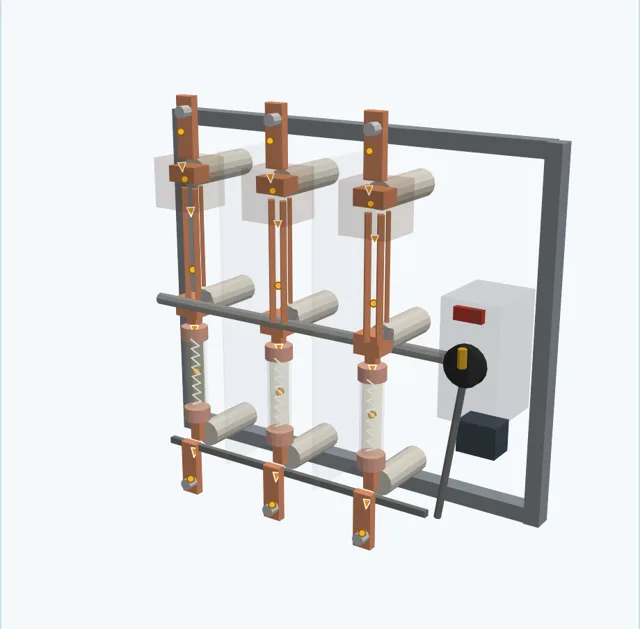
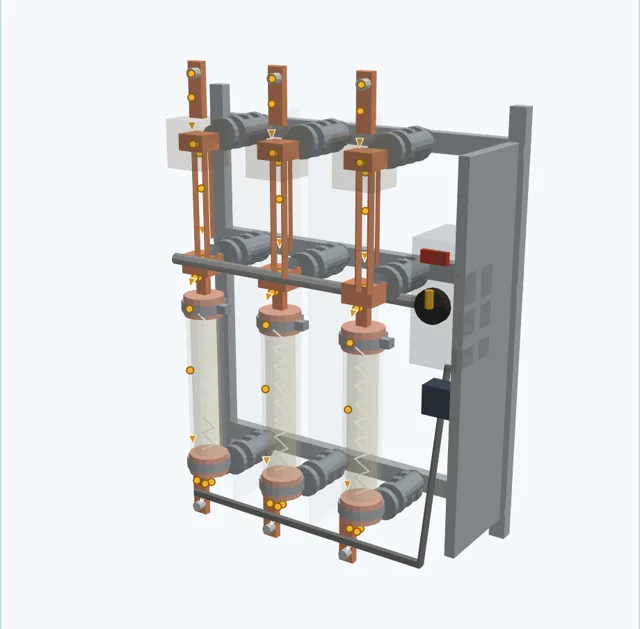
PF付きLBSの形を実機写真にそろえる
限流ヒューズを相間150mm・φ60×310の比で大きく下に吊る形にし、背面の取付枠から前へ突き出すひだ付き支持がいし（上・中・下）、右側の操作機構の側板に直した。根拠表に写真との対応と未照合の範囲を追記。

Claude-Session: https://claude.ai/code/session_016WJc7SiGEo9HpmpWo3XnJh

diff --git a/lbs-pf-3d.js b/lbs-pf-3d.js
@@ -4,13 +4,22 @@
    部品の上下配置・寸法比は外形図の画像と照合できていない（ページに明記）。 */
 (function () {
   'use strict';
-  var PX = { U: -0.56, V: 0, W: 0.56 }, PH = ['U', 'V', 'W'];
-  var YT = 1.62, YH = 0.98, ZH = 0.16;         /* 固定接触部の高さ、ヒンジ（主軸）の高さと奥行 */
+  /* 1 = 約250mm。相間150mm、限流ヒューズ φ60×310 の比に合わせる */
+  var PX = { U: -0.6, V: 0, W: 0.6 }, PH = ['U', 'V', 'W'];
+  var YT = 2.75, YH = 1.95, ZH = 0.2;           /* 固定接触部の高さ、ヒンジの高さと奥行 */
   var BL = YT - YH;                             /* ブレードの長さ */
-  var FT = 0.86, FB = 0.32, ZF = 0.16;          /* ヒューズの上端・下端・奥行 */
-  var CU = 0xc9874a, SILV = 0xc9cacc, RES = 0x7a4a2c, INS = 0xd9d3c6, STEEL = 0x8c939a;
+  var FT = 1.74, FB = 0.5, ZF = 0.2, FR = 0.12; /* ヒューズの上端・下端・奥行・半径 */
+  var ZB = -0.46;                               /* 背面の取付枠 */
+  var CU = 0xc9874a, SILV = 0xc9cacc, RES = 0x8a6a4c, INS = 0x9aa0a4, STEEL = 0xb4b9bd;
   function rotX(h, ang, x) { return [x, YH + h * Math.cos(ang), ZH + h * Math.sin(ang)]; }
   var DEG = Math.PI / 180;
+  /* ひだ付きの支持がいし（背面から前へ） */
+  function insul(G, x, y, z0, z1) {
+    var L = z1 - z0;
+    G.cyl(0.065, L, x, y, (z0 + z1) / 2, INS, 'z', { part: 'ins' }, { seg: 14 });
+    for (var i = 1; i <= 4; i++) G.cyl(0.105, 0.03, x, y, z0 + L * i / 5.2, INS, 'z', { part: 'ins' }, { seg: 16 });
+    G.cyl(0.08, 0.05, x, y, z0 + 0.025, 0x7c8186, 'z', { part: 'ins' }, { seg: 12 });
+  }
 
   var parts = {
     src: { name: '電源側端子', role: '受電側（電源側）の電線をつなぐ端子。開閉器が「切」でも、ここから上は電源につながっていて充電されている。', links: ['fixed', 'arc'], ev: 'simp', note: '上下どちらが電源側かは取付けで決まる。この図では上を電源側にしている。外形図とは未照合。' },
@@ -18,9 +27,9 @@
     fixed: { name: '固定接触部', role: 'ブレードが入る受け側。入のときは主ブレードがここで電流を流す。', links: ['src', 'blade', 'aux'], ev: 'simp', note: '主コンタクトと補助ブレードの2段構成はカタログ記載。形は簡略化。' },
     blade: { name: '主ブレード（主コンタクト）', role: 'ふだん電流を流す可動ブレード。「切」では、まず主ブレードが開き、電流は補助ブレードへ移る（転流）。', links: ['fixed', 'shaft', 'fuse'], ev: 'simp', note: '2段構成と開く順番はカタログ p.24付近。ブレードの形は簡略化。' },
     aux: { name: '速切り補助ブレード', role: '主ブレードより後に、ひねりばねの力で一気に開く補助のブレード。アークはここで出て、アークシュートの中で消える。', links: ['fixed', 'arc', 'blade'], ev: 'doc', note: 'ひねりばねで加速する速切り補助ブレード（カタログ p.24付近）。形・取付位置は簡略化。' },
-    ins: { name: '支持がいし', role: '充電部を取付枠から絶縁して支える。', links: ['frame', 'src', 'shaft'], ev: 'unk', note: '材質・形状・本数は未確認。' },
+    ins: { name: '支持がいし', role: '充電部を背面の取付枠から絶縁して支える。ひだで沿面距離をかせいでいる。', links: ['frame', 'src', 'shaft'], ev: 'simp', note: '背面の枠から前へ突き出たひだ付きのがいしで、上・中・下の3段に描いた。この並びは利用者の写真の実機（富士電機製のPF付LBS）と同じ一般的な形。参考型式の本数・寸法は外形図と未照合。' },
     shaft: { name: '主軸（3相連動）', role: '3相の主ブレードを同じ角度で回す軸。操作機構とつながり、3相を同時に開閉する。', links: ['blade', 'mech', 'trip'], ev: 'simp', note: '3相同時に開閉することは資料どおり。軸の位置は簡略化。' },
-    fuse: { name: '限流ヒューズ（ストライカ付）', role: '短絡電流を、ピークに達する前に限流して遮断する。溶断すると下側のストライカが飛び出し、開閉器を引き外す。', links: ['blade', 'element', 'striker', 'load'], ev: 'doc', note: '三菱 CL形（ストライカ付 LB・LD）。φ50×260・φ60×310・φ77×310 の外形がある（開閉器カタログ）。図の大きさは比率を合わせた簡略化。' },
+    fuse: { name: '限流ヒューズ（ストライカ付）', role: '短絡電流を、ピークに達する前に限流して遮断する。溶断すると下側のストライカが飛び出し、開閉器を引き外す。', links: ['blade', 'element', 'striker', 'load'], ev: 'doc', note: '三菱 CL形（ストライカ付 LB・LD）。φ50×260・φ60×310・φ77×310 の外形がある（開閉器カタログ）。図は φ60×310 と相間150mmの比に合わせた。' },
     element: { name: 'ヒューズエレメント', role: '電流で溶ける金属の帯。大電流定格はV字の刻みを入れた帯をジグザグに折って、けい砂の中に張り渡している。', links: ['fuse', 'sand'], ev: 'doc', note: 'ヒューズカタログ p.5（CL形の内部構造）。材質の記載はなく未確認。' },
     sand: { name: 'けい砂（消弧材）', role: 'エレメントのまわりを満たす砂。溶けた金属とアークの熱を吸い、アークを細かく分けて消す。', links: ['element', 'fuse'], ev: 'doc', note: 'ヒューズカタログ p.5。中央部のエレメントを端部より深く埋めている。' },
     striker: { name: 'ストライカ', role: 'ヒューズが溶断すると、表示線が溶けて内蔵ばねで突き出る棒。下キャップから出て、負荷側の引外し機構を押す。', links: ['fuse', 'trip'], ev: 'doc', note: '下キャップの動作表示装置を強力にしたもの（ヒューズカタログ p.5〜6）。力・ストロークは未確認。' },
@@ -30,89 +39,88 @@
     handle: { name: '操作ハンドル（フック棒操作）', role: 'フック棒を掛けて回すところ。一気にストッパーまで回す。', links: ['mech'], ev: 'doc', note: 'ハンドル方向は右・左を選べる（形名末尾 R／L）。この図は右（R）。' },
     auxsw: { name: '補助スイッチ（2a2b）', role: '開閉器の入・切に連動する接点。表示灯や引外し回路などに使う。', links: ['mech'], ev: 'doc', note: '標準2a2b（カタログ p.18付近）。取付位置は未確認。' },
     barrier: { name: '絶縁バリヤ', role: '相と相、相と側面のあいだを仕切る板。ワンタッチで取付けられる。', links: ['frame'], ev: 'doc', note: '相間・側面とも同一品（カタログ p.22付近）。形・大きさは簡略化。' },
-    frame: { name: '取付枠', role: '盤に取付ける鋼製の枠。接地する。', links: ['ins', 'barrier'], ev: 'simp', note: '取付ピッチ 390・335 などの数値はあるが、外形図との照合はできていない。' }
+    frame: { name: '取付枠', role: 'がいしと操作機構を背面で支え、盤に取付ける鋼製の枠。接地する。', links: ['ins', 'barrier', 'mech'], ev: 'simp', note: '形は簡略化。外形図との照合はできていない。' }
   };
 
   function build(G, st, mode) {
     var ang = (st.main || 0) * 68 * DEG, angA = (st.aux || 0) * 68 * DEG;
-    /* 取付枠（背面） */
-    G.box(2.2, 0.08, 0.1, 0.12, 1.92, -0.32, STEEL, { part: 'frame' });
-    G.box(2.2, 0.08, 0.1, 0.12, 0.05, -0.32, STEEL, { part: 'frame' });
-    G.box(0.08, 1.95, 0.1, -1.0, 0.98, -0.32, STEEL, { part: 'frame' });
-    G.box(0.08, 1.95, 0.1, 1.24, 0.98, -0.32, STEEL, { part: 'frame' });
+    /* 取付枠：背面の横材3本と縦材 */
+    [YT, YH, FB - 0.02].forEach(function (y) { G.box(2.3, 0.12, 0.08, 0.1, y, ZB - 0.04, STEEL, { part: 'frame' }); });
+    [-1.0, 1.2].forEach(function (x) { G.box(0.1, 2.75, 0.08, x, (YT + FB) / 2, ZB - 0.04, STEEL, { part: 'frame' }); });
     /* 絶縁バリヤ（相間） */
-    [-0.28, 0.28].forEach(function (x) { G.box(0.02, 1.7, 0.55, x, 1.0, -0.02, 0xb8c4cc, { part: 'barrier', alpha: 0.45, shell: true, shellAlpha: 0.1 }); });
+    [-0.3, 0.3].forEach(function (x) { G.box(0.02, 2.5, 0.75, x, 1.65, -0.06, 0xb8c4cc, { part: 'barrier', alpha: 0.4, shell: true, shellAlpha: 0.08 }); });
     PH.forEach(function (ph) {
-      var x = PX[ph], fault = st.fault && ph === 'V';
-      /* 支持がいし（上・ヒンジ・下） */
-      G.cyl(0.07, 0.4, x, YT + 0.08, -0.08, INS, 'z', { part: 'ins' }, { seg: 14 });
-      G.cyl(0.07, 0.36, x, YH, -0.1, INS, 'z', { part: 'ins' }, { seg: 14 });
-      G.cyl(0.07, 0.36, x, FB - 0.12, -0.1, INS, 'z', { part: 'ins' }, { seg: 14 });
+      var x = PX[ph], fault = st.fault && ph === 'V', blown = st.blown && ph === 'V';
+      /* 支持がいし（上：固定接触部、中：ヒンジとヒューズ上、下：ヒューズ下と負荷側） */
+      insul(G, x, YT, ZB, ZH - 0.12);
+      insul(G, x, YH, ZB, ZH - 0.12);
+      insul(G, x, FB - 0.02, ZB, ZF - FR - 0.02);
       /* 電源側端子 */
-      G.box(0.1, 0.32, 0.04, x, YT + 0.32, ZH, CU, { part: 'src', cond: 'src', ph: ph });
+      G.box(0.1, 0.34, 0.04, x, YT + 0.3, ZH, CU, { part: 'src', cond: 'src', ph: ph });
       G.cyl(0.03, 0.06, x, YT + 0.4, ZH + 0.03, SILV, 'z', { part: 'src' }, { seg: 10 });
       /* 固定接触部とアークシュート */
-      G.box(0.16, 0.08, 0.12, x, YT + 0.08, ZH, CU, { part: 'fixed', cond: 'src', ph: ph });
-      G.box(0.26, 0.26, 0.24, x + 0.02, YT + 0.04, ZH + 0.02, RES, { part: 'arc', shell: true, shellAlpha: 0.22 });
+      G.box(0.18, 0.1, 0.16, x, YT - 0.02, ZH, CU, { part: 'fixed', cond: 'src', ph: ph });
+      G.box(0.26, 0.3, 0.26, x + 0.02, YT - 0.02, ZH + 0.04, RES, { part: 'arc', shell: true, shellAlpha: 0.22 });
       /* 主ブレード（2枚） */
-      [-0.035, 0.035].forEach(function (dx) {
-        G.rod(rotX(0, ang, x + dx), rotX(BL, ang, x + dx), 0.018, CU, { part: 'blade', cond: 'mid', ph: ph }, 4);
+      [-0.04, 0.04].forEach(function (dx) {
+        G.rod(rotX(0, ang, x + dx), rotX(BL - 0.04, ang, x + dx), 0.02, CU, { part: 'blade', cond: 'mid', ph: ph }, 4);
       });
       /* 速切り補助ブレード */
-      G.rod(rotX(0.12, angA, x + 0.075), rotX(BL + 0.02, angA, x + 0.075), 0.011, 0xb07a3a, { part: 'aux', cond: 'mid', ph: ph }, 4);
-      G.helix([x + 0.075, YH + 0.06, ZH], 'x', 0.025, 0.05, 4, 0x6b7075, 1.6, { part: 'aux' });
-      /* アーク（開く途中だけ） */
+      G.rod(rotX(0.18, angA, x + 0.085), rotX(BL - 0.02, angA, x + 0.085), 0.012, 0xb07a3a, { part: 'aux', cond: 'mid', ph: ph }, 4);
+      G.helix([x + 0.085, YH + 0.1, ZH], 'x', 0.03, 0.06, 4, 0x6b7075, 1.6, { part: 'aux' });
       if (st.arc > 0.02) {
-        var tip = rotX(BL + 0.02, angA, x + 0.075), fx = [x + 0.06, YT + 0.04, ZH + 0.02], wig = [];
+        var tip = rotX(BL - 0.02, angA, x + 0.085), fx = [x + 0.06, YT - 0.04, ZH + 0.04], wig = [];
         for (var i = 0; i <= 8; i++) { var t = i / 8; wig.push([fx[0] + (tip[0] - fx[0]) * t + Math.sin(i * 2.3) * 0.015, fx[1] + (tip[1] - fx[1]) * t, fx[2] + (tip[2] - fx[2]) * t + Math.cos(i * 1.7) * 0.015]); }
         G.wire(wig, 0xb38cff, 3 + 3 * st.arc, { part: 'arc', layer: 'int', nopick: true, zb: 0.2 }, false);
       }
-      /* ヒンジ部とヒューズ上の接続 */
-      G.box(0.14, 0.1, 0.12, x, YH, ZH, CU, { part: 'blade', cond: 'mid', ph: ph });
-      G.box(0.06, YH - FT - 0.03, 0.04, x, (YH + FT) / 2, ZF, CU, { part: 'fuse', cond: 'mid', ph: ph });
-      /* 限流ヒューズ：キャップ・筒・中身 */
-      var fl = FT - FB, fc = (FT + FB) / 2, blown = st.blown && ph === 'V';
-      G.cyl(0.07, 0.07, x, FT - 0.035, ZF, SILV, 'y', { part: 'fuse', cond: 'mid', ph: ph }, { seg: 16 });
-      G.cyl(0.07, 0.07, x, FB + 0.035, ZF, SILV, 'y', { part: 'fuse', cond: blown ? 'off' : 'load', ph: ph }, { seg: 16 });
-      G.cyl(0.062, fl - 0.14, x, fc, ZF, 0xe8e4da, 'y', { part: 'fuse', shell: true, shellAlpha: 0.18 }, { seg: 18 });
-      /* 中身：けい砂とエレメント（内部表示） */
-      G.cyl(0.05, fl - 0.16, x, fc, ZF, 0xe9d9a8, 'y', { part: 'sand', layer: 'int', alpha: 0.35 }, { seg: 14 });
-      var zig = [], n = 14;
-      for (var k = 0; k <= n; k++) { var yy = FT - 0.08 - (fl - 0.16) * k / n; zig.push([x + (k % 2 ? 0.028 : -0.028), yy, ZF]); }
+      /* ヒンジ部とヒューズ上の取付金具 */
+      G.box(0.2, 0.12, 0.16, x, YH, ZH, CU, { part: 'blade', cond: 'mid', ph: ph });
+      G.box(0.07, YH - FT - 0.06, 0.05, x, (YH + FT) / 2 - 0.02, ZF, CU, { part: 'fuse', cond: 'mid', ph: ph });
+      /* 限流ヒューズ：両端のキャップと締付けバンド、白い筒、中身 */
+      var fl = FT - FB, fc = (FT + FB) / 2;
+      G.cyl(FR + 0.008, 0.13, x, FT - 0.065, ZF, SILV, 'y', { part: 'fuse', cond: 'mid', ph: ph }, { seg: 18 });
+      G.cyl(FR + 0.022, 0.06, x, FT - 0.07, ZF, 0xa9adb1, 'y', { part: 'fuse' }, { seg: 18 });
+      G.box(0.06, 0.05, 0.06, x + FR + 0.04, FT - 0.07, ZF, 0xa9adb1, { part: 'fuse' });
+      G.cyl(FR + 0.008, 0.13, x, FB + 0.065, ZF, SILV, 'y', { part: 'fuse', cond: blown ? 'off' : 'load', ph: ph }, { seg: 18 });
+      G.cyl(FR + 0.022, 0.06, x, FB + 0.07, ZF, 0xa9adb1, 'y', { part: 'fuse' }, { seg: 18 });
+      G.cyl(FR, fl - 0.26, x, fc, ZF, 0xf2f0ea, 'y', { part: 'fuse', shell: true, shellAlpha: 0.16 }, { seg: 20 });
+      G.cyl(FR + 0.002, 0.03, x, FT - 0.22, ZF, 0x2f6fb5, 'y', { part: 'fuse', layer: 'ext-only' }, { seg: 20 });
+      G.cyl(0.095, fl - 0.28, x, fc, ZF, 0xe9d9a8, 'y', { part: 'sand', layer: 'int', alpha: 0.35 }, { seg: 14 });
+      var zig = [], n = 16;
+      for (var k = 0; k <= n; k++) { var yy = FT - 0.14 - (fl - 0.28) * k / n; zig.push([x + (k % 2 ? 0.05 : -0.05), yy, ZF]); }
       if (blown) {
-        G.wire(zig.slice(0, 5), 0xd9d4c7, 2.4, { part: 'element', layer: 'int', zb: 0.15 }, false);
-        G.wire(zig.slice(10), 0xd9d4c7, 2.4, { part: 'element', layer: 'int', zb: 0.15 }, false);
-        if (st.farc > 0.02) G.wire(zig.slice(4, 11), 0xb38cff, 2 + 3 * st.farc, { part: 'element', layer: 'int', nopick: true, zb: 0.2 }, false);
+        G.wire(zig.slice(0, 6), 0xd9d4c7, 2.4, { part: 'element', layer: 'int', zb: 0.15 }, false);
+        G.wire(zig.slice(11), 0xd9d4c7, 2.4, { part: 'element', layer: 'int', zb: 0.15 }, false);
+        if (st.farc > 0.02) G.wire(zig.slice(5, 12), 0xb38cff, 2 + 3 * st.farc, { part: 'element', layer: 'int', nopick: true, zb: 0.2 }, false);
       } else G.wire(zig, 0xd9d4c7, 2.4, { part: 'element', layer: 'int', zb: 0.15 }, false);
       /* ストライカ（下キャップから下へ） */
       var sOut = ph === 'V' ? (st.striker || 0) : 0;
-      G.rod([x, FB, ZF], [x, FB - 0.02 - 0.09 * sOut, ZF], 0.016, 0xd9a227, { part: 'striker' }, 6);
-      /* 負荷側端子 */
-      G.box(0.06, 0.12, 0.04, x, FB - 0.06, ZF, CU, { part: 'load', cond: blown ? 'off' : 'load', ph: ph });
-      G.box(0.1, 0.3, 0.04, x, FB - 0.27, ZF + 0.06, CU, { part: 'load', cond: blown ? 'off' : 'load', ph: ph });
-      G.cyl(0.03, 0.06, x, FB - 0.36, ZF + 0.09, SILV, 'z', { part: 'load' }, { seg: 10 });
-      /* 電流（往路：電源側 → 負荷側。帰路は負荷とほかの相・電源を通るので、この機器の外） */
+      G.rod([x, FB, ZF], [x, FB - 0.03 - 0.12 * sOut, ZF], 0.02, 0xd9a227, { part: 'striker' }, 6);
+      /* 負荷側端子（下の取付金具から前下へ） */
+      G.box(0.07, 0.1, 0.05, x, FB - 0.02, ZF - FR + 0.02, CU, { part: 'load', cond: blown ? 'off' : 'load', ph: ph });
+      G.box(0.1, 0.36, 0.04, x - 0.16, FB - 0.22, ZF - FR + 0.02, CU, { part: 'load', cond: blown ? 'off' : 'load', ph: ph });
+      G.cyl(0.03, 0.06, x - 0.16, FB - 0.34, ZF - FR + 0.05, SILV, 'z', { part: 'load' }, { seg: 10 });
       if (mode !== 'ext' && st.cur && !(st.main > 0.5 && st.aux > 0.5)) {
-        var pathTop = [[x, YT + 0.42, ZH + 0.05], [x, YT + 0.08, ZH + 0.05]];
-        var via = st.main > 0.5 ? [rotX(BL, angA, x + 0.075), rotX(0.12, angA, x + 0.075)] : [rotX(BL, ang, x), rotX(0.05, ang, x)];
-        var rest = [[x, YH - 0.05, ZF], [x, FT, ZF], [x, FB, ZF], [x, FB - 0.36, ZF + 0.08]];
-        if (!(st.blown && ph === 'V' && !st.farc)) G.flow(pathTop.concat(via, rest), { col: fault ? 'bad' : 'cur', speed: fault ? 1.2 : 0.45, m: { part: 'fuse', layer: 'int' } });
+        var pathTop = [[x, YT + 0.42, ZH + 0.05], [x, YT - 0.02, ZH + 0.06]];
+        var via = st.main > 0.5 ? [rotX(BL - 0.02, angA, x + 0.085), rotX(0.18, angA, x + 0.085)] : [rotX(BL - 0.06, ang, x), rotX(0.05, ang, x)];
+        var rest = [[x, YH - 0.08, ZF + 0.04], [x, FT, ZF + FR + 0.02], [x, FB, ZF + FR + 0.02], [x, FB - 0.02, ZF - FR + 0.04], [x - 0.16, FB - 0.34, ZF - FR + 0.06]];
+        if (!(blown && !st.farc)) G.flow(pathTop.concat(via, rest), { col: fault ? 'bad' : 'cur', speed: fault ? 1.2 : 0.45, m: { part: 'fuse', layer: 'int' } });
       }
     });
     /* 主軸（3相連動） */
-    G.cyl(0.03, 1.75, 0.08, YH, ZH, 0x9a9a96, 'x', { part: 'shaft' }, { seg: 10 });
+    G.cyl(0.035, 1.95, 0.15, YH, ZH, 0x9a9a96, 'x', { part: 'shaft' }, { seg: 10 });
     /* ストライカ引外し機構：横棒とリンク（形は簡略化） */
-    var tb = (st.trip || 0) * 0.05;
-    G.box(1.62, 0.03, 0.03, 0.08, FB - 0.16 - tb, ZF + 0.02, 0x7a7a76, { part: 'trip' });
-    G.rod([0.95, FB - 0.16 - tb, ZF + 0.02], [1.05, YH - 0.1, ZH], 0.016, 0x7a7a76, { part: 'trip' });
-    /* 操作機構・ハンドル（右） */
-    G.box(0.3, 0.6, 0.36, 1.08, YH, 0.0, 0x5f6266, { part: 'mech', shell: true, shellAlpha: 0.25 });
+    var tb = (st.trip || 0) * 0.06;
+    G.box(1.75, 0.035, 0.035, 0.15, FB - 0.2 - tb, ZF, 0x7a7a76, { part: 'trip' });
+    G.rod([1.02, FB - 0.2 - tb, ZF], [1.08, YH - 0.4, 0.05], 0.018, 0x7a7a76, { part: 'trip' });
+    /* 操作機構（右の側板と箱）・ハンドル・表示・補助スイッチ */
+    G.box(0.06, 2.4, 0.6, 1.2, 1.6, -0.12, 0xa9aeb2, { part: 'mech' });
+    G.box(0.3, 0.75, 0.4, 1.06, YH, 0.0, 0x5f6266, { part: 'mech', shell: true, shellAlpha: 0.25 });
     var ha = (st.main || 0) * 90 * DEG;
-    G.cyl(0.1, 0.04, 1.08, YH, 0.21, 0x2c2c2a, 'z', { part: 'handle' }, { seg: 18 });
-    G.rod([1.08, YH, 0.24], [1.08 + 0.09 * Math.cos(ha + Math.PI / 2), YH + 0.09 * Math.sin(ha + Math.PI / 2), 0.24], 0.02, 0xd9a227, { part: 'handle' });
-    G.box(0.14, 0.06, 0.03, 1.08, YH + 0.24, 0.19, st.main > 0.5 ? 0x2f8a4e : 0xc0392b, { part: 'handle' });
-    /* 補助スイッチ */
-    G.box(0.2, 0.16, 0.14, 1.08, YH - 0.42, 0.0, 0x3f4a55, { part: 'auxsw' });
+    G.cyl(0.1, 0.05, 1.06, YH, 0.22, 0x2c2c2a, 'z', { part: 'handle' }, { seg: 18 });
+    G.rod([1.06, YH, 0.26], [1.06 + 0.1 * Math.cos(ha + Math.PI / 2), YH + 0.1 * Math.sin(ha + Math.PI / 2), 0.26], 0.022, 0xd9a227, { part: 'handle' });
+    G.box(0.16, 0.07, 0.03, 1.06, YH + 0.28, 0.21, st.main > 0.5 ? 0x2f8a4e : 0xc0392b, { part: 'handle' });
+    G.box(0.22, 0.18, 0.14, 1.06, YH - 0.62, 0.04, 0x3f4a55, { part: 'auxsw' });
   }
 
   function tint(m, st, mode) {
@@ -126,23 +134,25 @@
   }
 
   var labels = [
-    { part: 'src', t: '電源側', p: [-0.56, YT + 0.5, ZH], hot: false },
-    { part: 'arc', t: 'アークシュート', p: [0.56, YT + 0.24, ZH + 0.12] },
-    { part: 'blade', t: '主ブレード', p: [-0.56, (YT + YH) / 2, ZH + 0.06], layer: 'ext' },
-    { part: 'aux', t: '速切り補助ブレード', p: [0.62, (YT + YH) / 2 + 0.1, ZH + 0.06], layer: 'int' },
-    { part: 'fuse', t: '限流ヒューズ', p: [-0.56, (FT + FB) / 2, ZF + 0.08] },
-    { part: 'element', t: 'エレメント', p: [0.0, (FT + FB) / 2, ZF + 0.08], layer: 'int' },
-    { part: 'sand', t: 'けい砂', p: [0.56, (FT + FB) / 2 - 0.1, ZF + 0.08], layer: 'int' },
-    { part: 'striker', t: 'ストライカ', p: [0.0, FB - 0.08, ZF + 0.1] },
-    { part: 'trip', t: '引外し機構', p: [0.5, FB - 0.2, ZF + 0.06] },
-    { part: 'load', t: '負荷側', p: [-0.56, FB - 0.42, ZF + 0.08] },
-    { part: 'handle', t: '操作ハンドル', p: [1.08, YH + 0.36, 0.22] },
-    { part: 'auxsw', t: '補助スイッチ', p: [1.08, YH - 0.55, 0.1] },
-    { part: 'barrier', t: '絶縁バリヤ', p: [-0.28, 1.8, 0.2], layer: 'ext-only' },
+    { part: 'src', t: '電源側', p: [-0.6, YT + 0.55, ZH] },
+    { part: 'arc', t: 'アークシュート', p: [0.6, YT + 0.26, ZH + 0.18] },
+    { part: 'blade', t: '主ブレード', p: [-0.6, (YT + YH) / 2, ZH + 0.1], layer: 'ext' },
+    { part: 'aux', t: '速切り補助ブレード', p: [0.66, (YT + YH) / 2 + 0.1, ZH + 0.1], layer: 'int' },
+    { part: 'ins', t: '支持がいし', p: [-0.6, YH, -0.25], layer: 'ext-only' },
+    { part: 'fuse', t: '限流ヒューズ', p: [-0.6, (FT + FB) / 2, ZF + 0.16] },
+    { part: 'element', t: 'エレメント', p: [0.0, (FT + FB) / 2 + 0.15, ZF + 0.16], layer: 'int' },
+    { part: 'sand', t: 'けい砂', p: [0.6, (FT + FB) / 2 - 0.15, ZF + 0.16], layer: 'int' },
+    { part: 'striker', t: 'ストライカ', p: [0.0, FB - 0.12, ZF + 0.18] },
+    { part: 'trip', t: '引外し機構', p: [0.55, FB - 0.3, ZF + 0.1] },
+    { part: 'load', t: '負荷側', p: [-0.76, FB - 0.45, ZF] },
+    { part: 'handle', t: '操作ハンドル', p: [1.08, YH + 0.42, 0.24] },
+    { part: 'auxsw', t: '補助スイッチ', p: [1.08, YH - 0.8, 0.12] },
+    { part: 'barrier', t: '絶縁バリヤ', p: [-0.3, 2.85, 0.3], layer: 'ext-only' },
     { part: 'shaft', t: '主軸', p: [-0.95, YH, ZH], layer: 'int' },
-    { t: 'U', p: [-0.56, YT + 0.62, ZH] }, { t: 'V', p: [0, YT + 0.62, ZH] }, { t: 'W', p: [0.56, YT + 0.62, ZH] },
-    { t: 'アーク', p: [0.1, YT - 0.1, ZH + 0.4], hot: true, layer: 'int', when: function (s) { return s.arc > 0.3; } },
-    { t: 'V相：エレメント溶断', p: [0.1, (FT + FB) / 2 + 0.08, ZF + 0.12], hot: true, layer: 'int', when: function (s) { return s.blown; } }
+    { part: 'frame', t: '取付枠', p: [-1.0, FB - 0.25, ZB], layer: 'ext-only' },
+    { t: 'U相', p: [-0.6, FB - 0.7, ZF] }, { t: 'V相', p: [0, FB - 0.7, ZF] }, { t: 'W相', p: [0.6, FB - 0.7, ZF] },
+    { t: 'アーク', p: [0.1, YT - 0.15, ZH + 0.5], hot: true, layer: 'int', when: function (s) { return s.arc > 0.3; } },
+    { t: 'V相：エレメント溶断', p: [0.1, (FT + FB) / 2 + 0.08, ZF + 0.2], hot: true, layer: 'int', when: function (s) { return s.blown; } }
   ];
 
   var scenarios = [
@@ -191,7 +201,7 @@
     initial: { main: 0, aux: 0, cur: false, live: false, arc: 0, fault: false, blown: false, striker: 0, trip: 0, farc: 0 },
     build: build, tint: tint, labels: labels, scenarios: scenarios, stateList: stateList, svg: '#lbsWire', svgUpdate: svgUpdate,
     view: { yaw: -0.5, pitch: 0.12 },
-    views: { front: { label: '正面', yaw: 0, pitch: 0.05 }, side: { label: '横', yaw: -1.5, pitch: 0.05 }, top: { label: '上', yaw: -0.2, pitch: 1.25 }, fuse: { label: 'ヒューズ', yaw: -0.4, pitch: 0.1, zoom: 2.2, target: [0, 0.55, 0.16] } },
-    banner: { ext: ['参考：三菱電機 SCL-EHS2R', '!部品の上下配置・寸法比は外形図と未照合'], int: ['!内部：資料の記述をもとにした簡略図', 'ヒューズとアークシュートを透かしている'], op: ['!動きは模式・時間は実際より遅い'], wire: [] }
+    views: { front: { label: '正面', yaw: 0, pitch: 0.05 }, side: { label: '横', yaw: -1.5, pitch: 0.05 }, top: { label: '上', yaw: -0.2, pitch: 1.25 }, fuse: { label: 'ヒューズ', yaw: -0.4, pitch: 0.1, zoom: 1.9, target: [0, 1.1, 0.2] } },
+    banner: { ext: ['参考：三菱電機 SCL-EHS2R', '!全体の並びは一般形（実機写真と同じ）。寸法比は外形図と未照合'], int: ['!内部：資料の記述をもとにした簡略図', 'ヒューズとアークシュートを透かしている'], op: ['!動きは模式・時間は実際より遅い'], wire: [] }
   };
 })();

diff --git a/lbs-pf-3d.html b/lbs-pf-3d.html
@@ -40,8 +40,9 @@
 <tr><td>ストライカ引外し機構は負荷側、1相溶断で開閉器が開く</td><td><span class="hv-ev doc">資料で確認</span></td><td>開閉器カタログ p.22〜24付近</td></tr>
 <tr><td>補助スイッチ 2a2b、絶縁バリヤ（相間・側面）、ハンドル約90°・フック棒操作</td><td><span class="hv-ev doc">資料で確認</span></td><td>開閉器カタログ p.18・22・32付近</td></tr>
 <tr><td>ヒューズ内部：帯状エレメントをジグザグに配設、けい砂、下キャップの動作表示（ストライカ）</td><td><span class="hv-ev doc">資料で確認</span></td><td>限流ヒューズカタログ p.5〜6（CL形）</td></tr>
-<tr><td>ヒューズの太さと長さの比</td><td><span class="hv-ev simp">簡略化</span></td><td>φ60×310 を目安に比を合わせた</td></tr>
-<tr><td>部品の上下配置、ヒンジの位置、がいしの形、全体の寸法比</td><td><span class="hv-ev unk">未確認</span></td><td>外形図（図番号はカタログに記載）の画像を照合できていない。一般的なPF付LBSの並びで描いた</td></tr>
+<tr><td>ヒューズの太さと長さの比</td><td><span class="hv-ev simp">簡略化</span></td><td>φ60×310 と相間150mmの比に合わせた（ヒューズの外形はカタログ記載の1つ）</td></tr>
+<tr><td>全体の並び：上に開閉部、下に限流ヒューズを縦に吊り、背面の枠から前へ突き出したひだ付きがいしで支える。操作機構は右の側板</td><td><span class="hv-ev simp">簡略化</span></td><td>利用者が撮った実機（富士電機製のPF付LBS、ヒューズ JC-6/30）の写真と同じ一般的な並び。参考型式そのものの写真ではない</td></tr>
+<tr><td>ヒンジの位置、がいしの本数・形、全体の寸法比</td><td><span class="hv-ev unk">未確認</span></td><td>参考型式の外形図（図6-19・6-20、p.26）の画像を照合できていない</td></tr>
 <tr><td>引外し機構・操作機構の中の形、補助スイッチの位置</td><td><span class="hv-ev unk">未確認</span></td><td>資料に構造図がない。箱と棒だけで表した</td></tr>
 <tr><td>ストライカの力・ストローク、突出の向き</td><td><span class="hv-ev unk">未確認</span></td><td>下キャップから出ることと、負荷側に引外し機構があることから、下向きに描いた</td></tr>
 </table></div>
